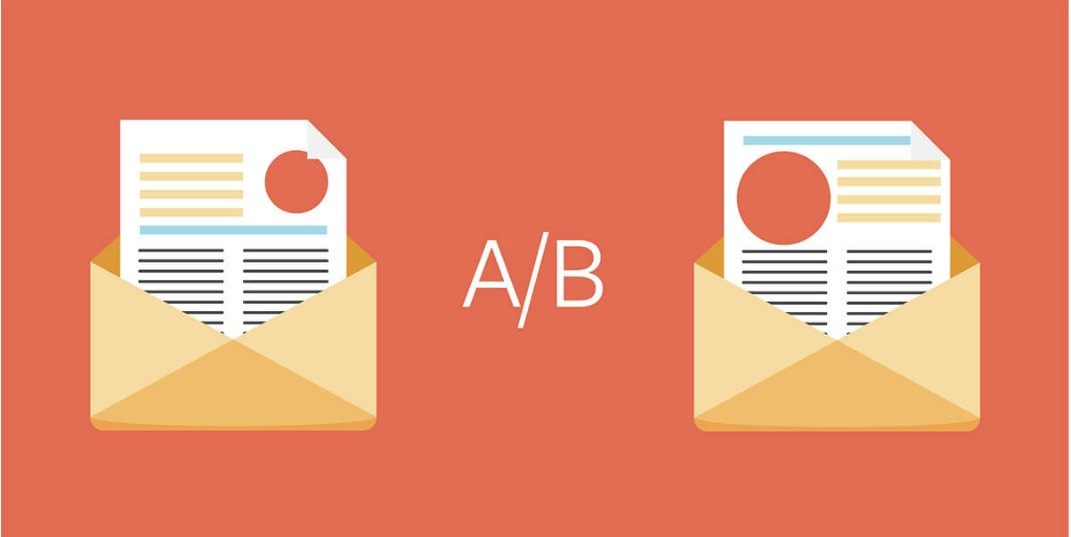
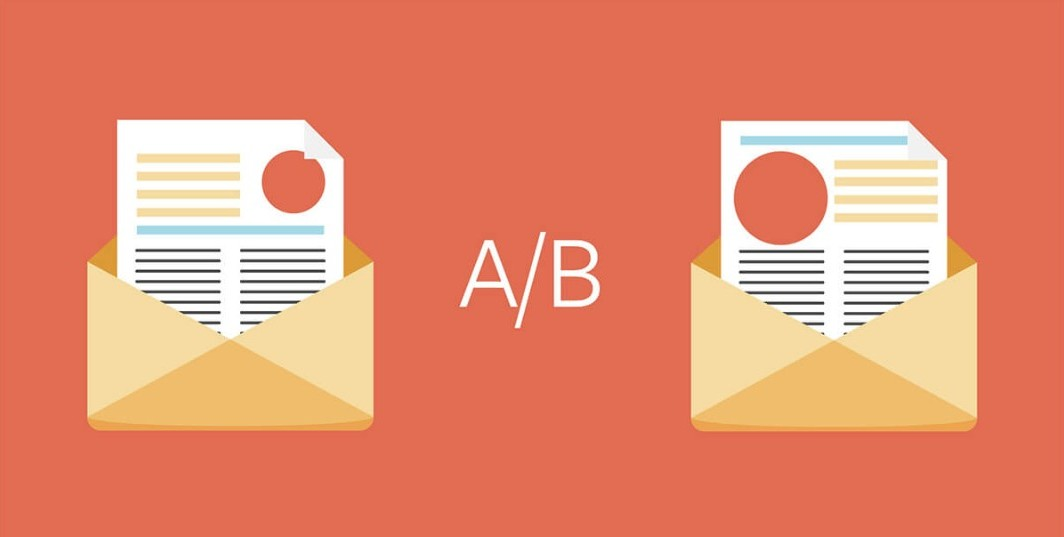
chi-square-test format updates

diff --git a/_posts/2026-06-12-chi-square-test.md b/_posts/2026-06-12-chi-square-test.md
@@ -57,7 +57,6 @@ Note: The *Z-Test For Proportions* is another viable test to run for measuring r
 ___
 
 # Concept Overview  <a name="concept-overview"></a>
-
 <br>
 #### A/B Testing
 
@@ -70,23 +69,25 @@ Measuring the response of each group provides us with information that can help 
 <br>
 #### Hypothesis Testing
 
-A Hypothesis Test is 
+!!!!A Hypothesis Test is ...
+reject or accept our null hypothesis...
 
 When performing a hypothesis test, the following must be defined:
 
 <br>
 **The Null Hypothesis**
 
-The null hypothesis is a statistical assumption stating that there is no real relationship, effect, or difference between variables in a population
+The Null Hypothesis is a statistical assumption stating that there is no real relationship, association, or difference between two outcomes or groups. We run a hypothesis test to either reject or accept the Null Hypothesis.
 
 <br>
 **The Alternate Hypothesis**
 
-
+The Alternate Hypothesis is what we are testing our Null Hypothesis against. It asserts that there is a measurable relationship, effect, or difference between variables, directly contradicting the Null Hypothesis.
 
 <br>
 **The Acceptance Criteria**
 
+This acceptance criteria is also our p-value threshold. We can 
 
 
 <br>
@@ -108,10 +109,8 @@ This table contains each each unique customer_id, the type of mailer they receiv
 
 To determine whether the fancier Mailer 2 lead to a significant difference of people to sign up as opposed to the cheaper Mailer 1, we will first need to exclude the control group from the data by extracting the customers who got either mailer.
 
-
 <br>
 ```python
-
 # import the required python libraries
 import pandas as pd
 from scipy.stats import chi2_contingency, chi2
@@ -121,11 +120,9 @@ campaign_data = pd.read_excel(...)
 
 # filter out the control group
 campaign_data = campaign_data.loc[campaign_data["mailer_type"] != "Control"]
-
 ```
 <br>
-Below is a 10 row sample of the imported campaign_data DataFrame:
-<br>
+Below is a 10 row sample of the imported **campaign_data** DataFrame:
 <br>
 
 | **customer_id** | **campaign_name** | **mailer_type** | **signup_flag** |
@@ -144,7 +141,7 @@ Below is a 10 row sample of the imported campaign_data DataFrame:
 
 <br>
 
-In the campaign_data DataFrame we have:
+In the **campaign_data** DataFrame we have the following columns:
 
 * customer_id
 * campaign name
@@ -162,12 +159,8 @@ ___
 #### State Hypotheses & Acceptance Criteria For Test
 
 
-
-```
-
 <br>
 #### Calculate Observed Frequencies & Expected Frequencies
-
 
 
 ___
@@ -190,7 +183,7 @@ ___
 
 <br>
 # Discussion <a name="discussion"></a>
-```
+
 Because there is no significant difference between the signup rate of Mailer recipients, we could recommend that for the next promotion, the grocery store only send the cheap version of the mailers to customers. This can save the business money overall.
 
 If we did however, determine that Mailer 2 led to significantly more customers signing up, then we may consider going forward with only sending out Mailer 2 to keep us ahead of the competition by appealing to newer folks.